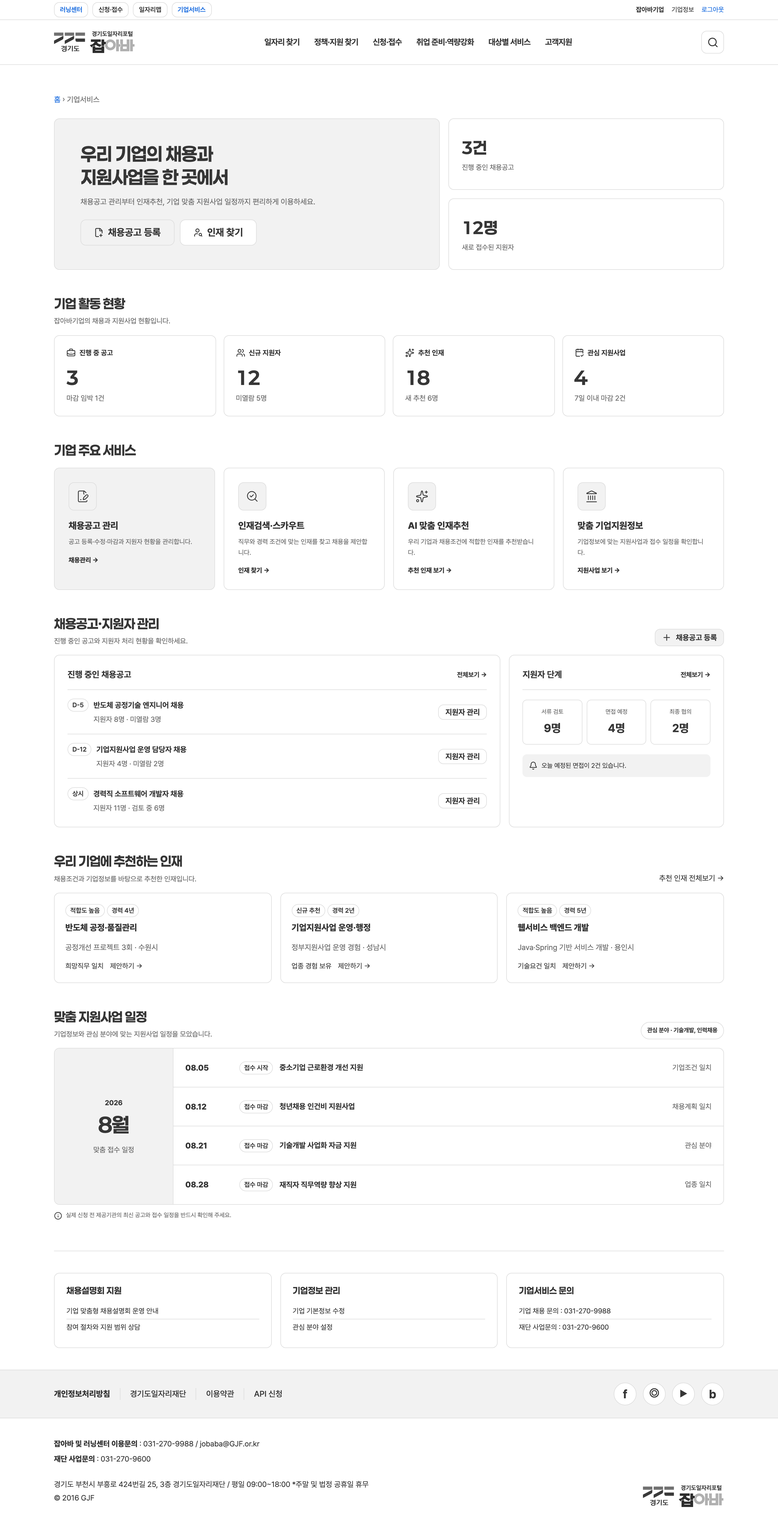
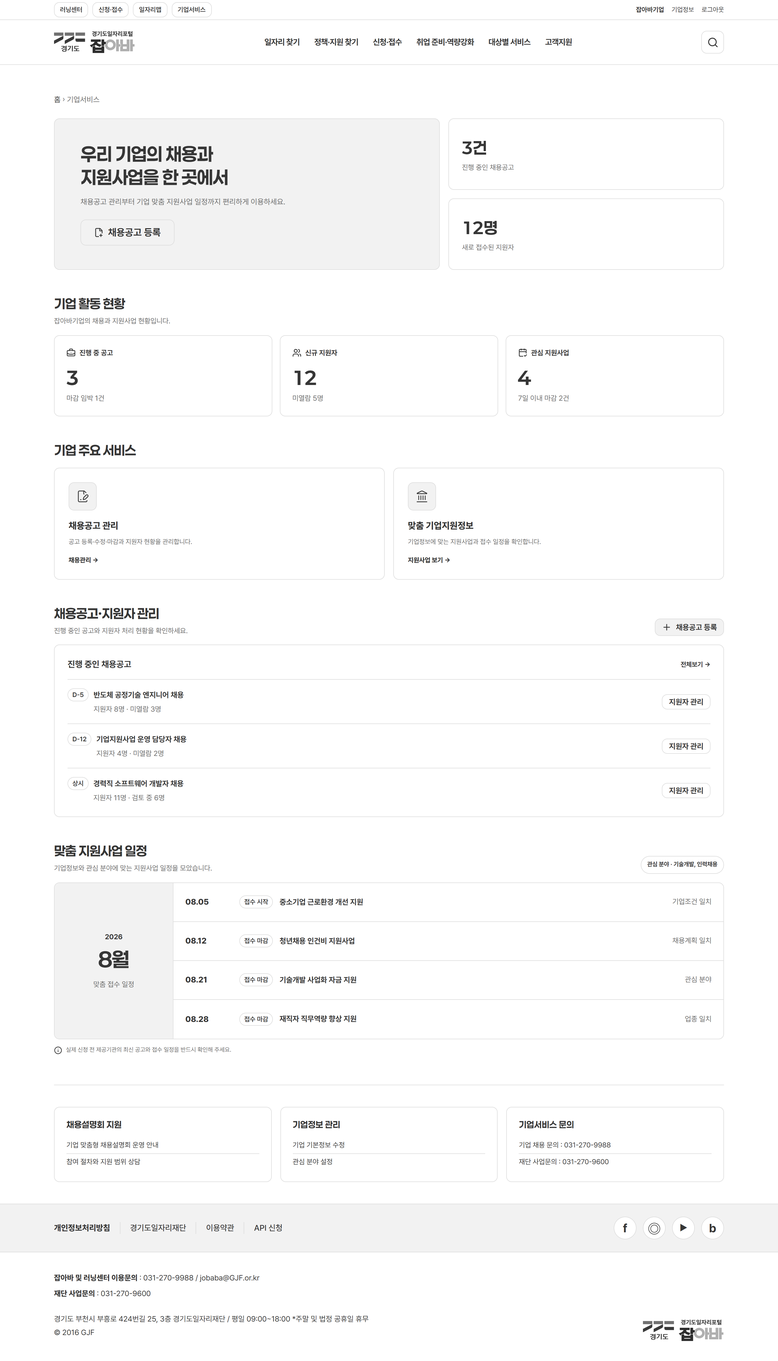
v2: Update biz home screen design and data mapping to current prototype

diff --git a/v2/screendoc/80_기업서비스/8.2.0_SCR-BIZM.html b/v2/screendoc/80_기업서비스/8.2.0_SCR-BIZM.html
@@ -6,17 +6,17 @@
 </head><body>
 <section class="page page--flow" data-kind="screen" data-screen="8.2.0">
   <div class="page__frame"><div class="sheet">
-    <div class="sheet__left"><div class="bar">기업서비스 / 기업서비스 홈</div><span class="label label--fr">SCR-BIZM / 기업서비스 홈·기업회원</span><p class="lead">개발구분 [N] 신규 개발 — 운영 대응 화면 없음. 기업회원 로그인 후 우리 기업 현황 요약(공고 · 지원자) · 채용공고·지원자 관리 · 추천 인재 · 맞춤 지원사업 일정을 제공한다. 지원자 정보는 기업회원 권한 검증 후 최소 범위로 노출한다.</p><ul class="lead-list"><li>대상 사용자: 기업회원(로그인 후)</li><li>진입 경로: 잡아바 홈 &gt; 기업서비스(기업회원)</li><li>주요 기능: FR-BIZ06 기업 활동 현황 · FR-BIZ07 채용공고 관리 · FR-BIZ08 인재검색 · 스카우트 외</li></ul><span class="label label--block">기업서비스 홈 · 기업회원 전체 화면</span><div class="shot" style="height:2196.4px"><img src="../90_data/capture/8.2.0_cap1.png" alt="기업서비스 홈 · 기업회원 전체 화면"><span class="mk mk--design" style="left:64.8px;top:157.3px">1</span><span class="mk mk--design" style="left:64.8px;top:469.0px">2</span><span class="mk mk--design" style="left:64.8px;top:659.7px">3</span><span class="mk mk--design" style="left:64.8px;top:872.7px">4</span><span class="mk mk--design" style="left:64.8px;top:1214.6px">5</span><span class="mk mk--design" style="left:64.8px;top:1438.0px">6</span><span class="mk mk--design" style="left:64.8px;top:1785.8px">7</span><span class="mk mk--dev" style="left:1029.2px;top:469.0px">1</span><span class="mk mk--dev" style="left:1029.2px;top:872.7px">2</span><span class="mk mk--dev" style="left:1029.2px;top:659.7px">3</span><span class="mk mk--dev" style="left:1029.2px;top:1214.6px">4</span><span class="mk mk--dev" style="left:1029.2px;top:1438.0px">5</span><span class="mk mk--dev" style="left:1029.2px;top:1785.8px">6</span></div></div>
+    <div class="sheet__left"><div class="bar">기업서비스 / 기업서비스 홈</div><span class="label label--fr">SCR-BIZM / 기업서비스 홈·기업회원</span><p class="lead">개발구분 [N] 신규 개발 — 운영 대응 화면 없음. 기업회원 로그인 후 우리 기업 현황 요약(공고 · 지원자) · 채용공고·지원자 관리 · 맞춤 지원사업 일정을 제공한다. 지원자 정보는 기업회원 권한 검증 후 최소 범위로 노출한다.</p><ul class="lead-list"><li>대상 사용자: 기업회원(로그인 후)</li><li>진입 경로: 잡아바 홈 &gt; 기업서비스(기업회원)</li><li>주요 기능: FR-BIZ06 기업 활동 현황 · FR-BIZ07 채용공고 관리 · FR-BIZ11 맞춤 지원사업 일정 외</li></ul><span class="label label--block">기업서비스 홈 · 기업회원 전체 화면</span><div class="shot" style="height:1957.7px"><img src="../90_data/capture/8.2.0_cap1.png" alt="기업서비스 홈 · 기업회원 전체 화면"><span class="mk mk--design" style="left:64.8px;top:157.1px">1</span><span class="mk mk--design" style="left:64.8px;top:412.2px">2</span><span class="mk mk--design" style="left:64.8px;top:623.0px">3</span><span class="mk mk--design" style="left:64.8px;top:857.9px">4</span><span class="mk mk--design" style="left:64.8px;top:1199.3px">5</span><span class="mk mk--design" style="left:64.8px;top:1547.0px">6</span><span class="mk mk--dev" style="left:1029.2px;top:412.2px">1</span><span class="mk mk--dev" style="left:1029.2px;top:857.9px">2</span><span class="mk mk--dev" style="left:1029.2px;top:1199.3px">3</span><span class="mk mk--dev" style="left:1029.2px;top:1547.0px">4</span></div></div>
     <div class="sheet__right"><table class="meta"><tbody>
       <tr><th>화면명</th><td>기업서비스 홈·기업회원</td><th>화면ID</th><td>8.2.0</td>
-          <th>작성일자</th><td>2026-09-06</td></tr>
-      <tr><th>시스템명</th><td>잡아바</td><th>버전</th><td>v 0.2.0</td>
+          <th>작성일자</th><td>2026-10-16</td></tr>
+      <tr><th>시스템명</th><td>잡아바</td><th>버전</th><td>v 0.3.0</td>
           <th>작성자</th><td>김창균</td></tr>
       <tr><th>화면경로</th><td class="l" colspan="3">잡아바 홈 &gt; 기업서비스(기업회원)</td>
           <th>SCR-ID</th><td>SCR-BIZM</td></tr>
     </tbody></table><table class="desc"><caption>Description</caption>
   <thead><tr><th class="h-design" colspan="2">디자인 / 퍼블리싱 요청</th>
              <th class="h-dev" colspan="2">기능 개발 요청</th></tr></thead>
-  <tbody><tr><td class='no no--design'>1</td><td class='body'><span class="fr-tag">FR-BIZ06</span><div>기업회원 히어로</div><ul><li>좌: 기업명 인사 + `채용공고 등록` · `인재검색` CTA</li><li>우: 현황 요약 카드(진행 중 채용공고 · 새로 접수된 지원자)</li></ul></td><td class='no no--dev'>1</td><td class='body'><span class="fr-tag">FR-BIZ06</span><div>기업 활동 현황 집계</div><ul><li>[DATA/CN-BIZ-01] 기업 식별 = `TB_EMPLYR_LINK.ENT_INFO_SEQ` → `jwrki.TB_ENT_INFO.SEQ` → `BIZRNO`</li><li>진행중 공고 = `TB_ENT_UNTACT_EMPMN` COUNT(`BIZRNO` · `USE_YN` · `BLOCK_YN=&#x27;N&#x27;` + 접수기간 유효 — `RQT_END_DE+HR` 문자열) · 마감임박 D-7</li><li>신규 지원자 = `TB_ENT_UNTACT_EMPMN_SPRT` COUNT(`REG_DT`) · 추천 인재 = `TB_ENT_UNTACT_AI_MATCHING` COUNT · 관심 지원사업 = `TB_SCRAP`(`09`)</li><li>미열람 = 열람 플래그 컬럼 부재 → 플래그 신설(SC-BIZ-02) / 전형결과 미입력 대체 / 지표 제거 중 택일 · 집계 시점 확정 필요</li></ul></td></tr><tr><td class='no no--design'>2</td><td class='body'><span class="fr-tag">FR-BIZ06</span><div>기업 활동 현황</div><ul><li>지표 카드 = 진행 중 공고(마감 임박 n) · 신규 지원자(미열람 n) · 추천 인재 · 관심 지원사업</li><li>지표 선택 시 해당 영역으로 이동</li></ul></td><td class='no no--dev'>2</td><td class='body'><span class="fr-tag">FR-BIZ07</span><div>채용공고 · 지원자 조회</div><ul><li>[DATA/CN-BIZ-02] `jmmbi.TB_ENT_UNTACT_EMPMN` `BIZRNO` 기준 — `TITLE` · `STATUS`(코드그룹 확인) · `RECRUITMENT_DEADLINE_YN` · 등록일·담당자 · 사전질문 `TB_ENT_UNTACT_EMPMN_BF_QSTN`</li><li>[DATA/CN-BIZ-04] 지원자 = `jedut.TB_ENT_UNTACT_EMPMN_SPRT`(`EMPMN_SEQ` · `MBER_SEQ` · `REG_DT` · 전형결과 `DOC_RSLT_CD` `INTRV_RSLT_CD` `LAST_RSLT_CD`) + 단계 이력 `TB_ENT_EMPMN_SPRT_STATUS_HIST` + 지원 시점 이력서 스냅샷 `TB_UNTACT_RESUME`</li><li>공고 담당자 권한 검증 후 조회 · `MBER_SEQ` 직접 노출 금지</li></ul></td></tr><tr><td class='no no--design'>3</td><td class='body'><span class="fr-tag">FR-BIZ07</span><div>기업 서비스 바로가기</div><ul><li>채용공고 관리 · 인재검색·스카우트 · AI 맞춤 인재추천 · 맞춤 기업지원정보 카드</li></ul></td><td class='no no--dev'>3</td><td class='body'><span class="fr-tag">FR-BIZ08</span><div>인재검색 · 스카우트</div><ul><li>[DATA/CN-BIZ-03] 모집단 = `TB_JBHNT_REG` 추천신청 회원 · 조건 = `TB_MBER_RESUME` `HOPE_JOB_CD` `TOT_CAREER_CD` `HOPE_AREA_CD` `ACDMCR_CD` `EMP_TP_CD` · `KEYWORD`</li><li>제안 발송 = `jmmbi.TB_ENT_SUGGEST`(→ `TB_ENT_UNTACT_EMPMN_SPRT.SUGGEST_SEQ`로 지원 전환 추적)</li></ul></td></tr><tr><td class='no no--design'>4</td><td class='body'><span class="fr-tag">FR-BIZ07</span><div>채용공고 · 지원자 관리</div><ul><li>좌 패널: 진행 중인 채용공고 목록(D-day · 공고명 · 지원자 수) + `전체보기`</li><li>우 패널: 지원자 단계(서류 검토 · 면접 · 최종) 인원 + 오늘 면접 안내</li><li>공고 등록·수정·마감과 공고별 지원자 현황으로 이동 · 지원자 개인정보는 권한 검증 후 최소 범위</li></ul></td><td class='no no--dev'>4</td><td class='body'><span class="fr-tag">FR-BIZ10</span><div>추천 인재</div><ul><li>[AI-REUSE/CN-BIZ-05] `jmmbi.TB_ENT_UNTACT_AI_MATCHING` 매칭 결과 재사용 · 공고 단위 추천요청 `RECOM_YN` `RECOM_REQ_DT`</li><li>공고측(`UNTACT_02` · `UNTACT_03`) ↔ 구직자측(`UNTACT_08` · `UNTACT_14`) 코드그룹 불일치 — 변환표 선행(R18) · 추천 근거 필드 보유 여부 컬럼 실측</li></ul></td></tr><tr><td class='no no--design'>5</td><td class='body'><span class="fr-tag">FR-BIZ10</span><div>우리 기업에 추천하는 인재</div><ul><li>채용조건에 맞는 추천 인재 카드(직무 · 경력 · 지역 · 추천 근거) + 신규 추천 건수</li><li>신규 추천 모델 개발은 범위 밖 — 기개발 AI 매칭 결과 재사용 · 인재 식별값은 구직자 시퀀스 사용</li></ul></td><td class='no no--dev'>5</td><td class='body'><span class="fr-tag">FR-BIZ11</span><div>맞춤 지원사업 일정</div><ul><li>[DATA/CN-BIZ-06] `jedut.TB_ENT_SPRT` `APLY_BGN_DT~APLY_END_DT` ↔ 기업 관심분야(`TB_EMPLYR_INTEREST` 계열 재사용 후보 · SC-BIZ-01)</li></ul></td></tr><tr><td class='no no--design'>6</td><td class='body'><span class="fr-tag">FR-BIZ11</span><div>맞춤 지원사업 일정</div><ul><li>기업정보·관심분야에 맞는 지원사업의 신청기간 · 마감일 목록(월 단위)</li><li>캘린더 UI는 개발 완료 후 적용 · 신청 전 제공기관 최신 공고 확인 안내</li></ul></td><td class='no no--dev'>6</td><td class='body'><span class="fr-tag">FR-BIZ12</span><div>기업정보 · 관심분야 관리</div><ul><li>[DATA/CN-BIZ-07] `jwrki.TB_ENT_INFO` · `TB_ENT_EXCLNC`(`ENT_NM` · `KOR_CEO_NM` · 주소 · 연락처 · `HOMP_URL` · `ENT_SMR`) · 콘텐츠관 `TB_ENT_CNTNTS_MPNG`</li><li>관심 지원분야(복수) = `TB_EMPLYR_INTEREST` / `_INTRST_OCCUPT` / `_INTRST_KEYWORD`</li></ul></td></tr><tr><td class='no no--design'>7</td><td class='body'><span class="fr-tag">FR-BIZ12</span><div>하단 안내 영역</div><ul><li>채용설명회 지원 · 기업정보·관심분야 관리 진입 · 문의 채널</li></ul></td><td class='muted'></td><td class='muted'></td></tr></tbody></table><div class="block"><span class="label label--block">화면 개요</span><ul><li>개발구분 [N] 신규 개발 — 기업회원 전용 홈. 기업 활동 현황 · 채용공고·지원자 관리 · 인재검색·스카우트 · 추천 인재 · 맞춤 지원사업 일정 · 기업정보 관리 진입을 한 화면에 요약한다.</li><li>기업회원 식별 경로 = TB_MBER_LINK → TB_EMPLYR_LINK.ENT_INFO_SEQ → TB_ENT_INFO.BIZRNO(확정). 지원자 개인정보는 기업 권한과 공고 담당자 권한을 확인한 뒤 최소 범위로 제공한다.</li><li>공고 등록폼 · 지원자 상세 등 기업 전용 하위 업무 화면은 이번 범위 밖이다. 캘린더는 개발 완료 후 적용한다.</li></ul></div><div class="block"><span class="label label--block">화면 구조</span><table><thead><tr><th>#</th><th>영역</th><th>구성</th><th>FR ID</th></tr></thead><tbody><tr><td>1</td><td>히어로</td><td>기업명 인사 · 공고 등록/인재검색 CTA · 현황 요약</td><td>FR-BIZ06</td></tr><tr><td>2</td><td>기업 활동 현황</td><td>진행 중 공고 · 신규 지원자 · 추천 인재 · 관심 지원사업</td><td>FR-BIZ06</td></tr><tr><td>3</td><td>서비스 바로가기</td><td>채용공고 관리 · 인재검색·스카우트 · AI 맞춤 인재추천 · 맞춤 기업지원정보</td><td>FR-BIZ07·08·10</td></tr><tr><td>4</td><td>채용공고 · 지원자 관리</td><td>진행 공고 목록 + 지원자 단계 패널</td><td>FR-BIZ07·09</td></tr><tr><td>5</td><td>추천 인재</td><td>추천 카드 + 신규 추천 건수 + 근거</td><td>FR-BIZ10</td></tr><tr><td>6</td><td>맞춤 지원사업 일정</td><td>월 단위 신청기간·마감일</td><td>FR-BIZ11</td></tr><tr><td>7</td><td>하단 안내</td><td>채용설명회 · 기업정보·관심분야 관리 · 문의</td><td>FR-BIZ12</td></tr></tbody></table></div><div class="block"><span class="label label--block">로그인 전 대비 차이</span><table><thead><tr><th>영역</th><th>로그인 전(8.1.0)</th><th>기업회원(본 화면)</th></tr></thead><tbody><tr><td>히어로</td><td>서비스 소개 + 가입 CTA</td><td>우리 기업 현황 + 공고 등록 CTA</td></tr><tr><td>주요 영역</td><td>공개 정보 안내</td><td>활동 현황 · 공고/지원자 관리 · 추천 인재 · 맞춤 일정</td></tr><tr><td>지원자 정보</td><td>노출하지 않음</td><td>권한 검증 후 최소 범위</td></tr></tbody></table></div><div class="block"><span class="label label--block">상태 · 예외 처리</span><ul><li>진행 중 공고가 없으면 공고 등록 유도 카드를 노출한다.</li><li>추천 인재가 0건이면 채용조건 설정 유도를 노출한다.</li><li>지표 집계 시점과 `미열람` 정의, 추천 인재·지원사업 매칭 기준은 개발 전에 확정한다.</li></ul></div></div>
+  <tbody><tr><td class='no no--design'>1</td><td class='body'><span class="fr-tag">FR-BIZ06</span><div>기업회원 히어로</div><ul><li>좌: 기업명 인사 + `채용공고 등록` CTA</li><li>우: 현황 요약 카드(진행 중 채용공고 · 새로 접수된 지원자)</li></ul></td><td class='no no--dev'>1</td><td class='body'><span class="fr-tag">FR-BIZ06</span><div>기업 활동 현황 집계</div><ul><li>[DATA/CN-BIZ-01] 기업 식별 = `TB_EMPLYR_LINK.ENT_INFO_SEQ` → `jwrki.TB_ENT_INFO.SEQ` → `BIZRNO`</li><li>진행중 공고 = `TB_ENT_UNTACT_EMPMN` COUNT(`BIZRNO` · `USE_YN` · `BLOCK_YN=&#x27;N&#x27;` + 접수기간 유효 — `RQT_END_DE+HR` 문자열) · 마감임박 D-7</li><li>신규 지원자 = `TB_ENT_UNTACT_EMPMN_SPRT` COUNT(`REG_DT`) · 관심 지원사업 = `TB_SCRAP`(`09`)</li><li>미열람 = 열람 플래그 컬럼 부재 → 플래그 신설(SC-BIZ-02) / 전형결과 미입력 대체 / 지표 제거 중 택일 · 집계 시점 확정 필요</li></ul></td></tr><tr><td class='no no--design'>2</td><td class='body'><span class="fr-tag">FR-BIZ06</span><div>기업 활동 현황</div><ul><li>지표 카드 3종 = 진행 중 공고(마감 임박 n) · 신규 지원자(미열람 n) · 관심 지원사업(7일 이내 마감 n)</li><li>지표 선택 시 해당 영역으로 이동</li></ul></td><td class='no no--dev'>2</td><td class='body'><span class="fr-tag">FR-BIZ07</span><div>채용공고 · 지원자 조회</div><ul><li>[DATA/CN-BIZ-02] `jmmbi.TB_ENT_UNTACT_EMPMN` `BIZRNO` 기준 — `TITLE` · `STATUS`(코드그룹 확인) · `RECRUITMENT_DEADLINE_YN` · 등록일·담당자 · 사전질문 `TB_ENT_UNTACT_EMPMN_BF_QSTN`</li><li>[DATA/CN-BIZ-04] 지원자 = `jedut.TB_ENT_UNTACT_EMPMN_SPRT`(`EMPMN_SEQ` · `MBER_SEQ` · `REG_DT`) + 지원 시점 이력서 스냅샷 `TB_UNTACT_RESUME`</li><li>전형결과는 단계 구분 없이 1개(미확인 · 보류 · 합격 · 불합격) — 기존 단계별 컬럼(`DOC_RSLT_CD` · `INTRV_RSLT_CD` · `LAST_RSLT_CD`) 중 저장 컬럼 확정 필요</li><li>공고 담당자 권한 검증 후 조회 · `MBER_SEQ` 직접 노출 금지</li></ul></td></tr><tr><td class='no no--design'>3</td><td class='body'><span class="fr-tag">FR-BIZ07</span><div>기업 서비스 바로가기</div><ul><li>채용공고 관리 · 맞춤 기업지원정보 카드 2종</li></ul></td><td class='no no--dev'>3</td><td class='body'><span class="fr-tag">FR-BIZ11</span><div>맞춤 지원사업 일정</div><ul><li>[DATA/CN-BIZ-06] `jedut.TB_ENT_SPRT` `APLY_BGN_DT~APLY_END_DT` ↔ 기업 관심분야(`TB_EMPLYR_INTEREST` 계열 재사용 후보 · SC-BIZ-01)</li></ul></td></tr><tr><td class='no no--design'>4</td><td class='body'><span class="fr-tag">FR-BIZ07</span><div>채용공고 · 지원자 관리</div><ul><li>진행 중인 채용공고 목록(D-day · 공고명 · 지원자 수 · 미열람 수) + `전체보기` · 공고별 `지원자 관리` 이동</li><li>지원자 단계 패널 · 오늘 면접 안내는 제공하지 않음(전형단계 미운영)</li><li>공고 등록·수정·마감과 공고별 지원자 현황으로 이동 · 지원자 개인정보는 권한 검증 후 최소 범위</li></ul></td><td class='no no--dev'>4</td><td class='body'><span class="fr-tag">FR-BIZ12</span><div>기업정보 · 관심분야 관리</div><ul><li>[DATA/CN-BIZ-07] `jwrki.TB_ENT_INFO` · `TB_ENT_EXCLNC`(`ENT_NM` · `KOR_CEO_NM` · 주소 · 연락처 · `HOMP_URL` · `ENT_SMR`) · 콘텐츠관 `TB_ENT_CNTNTS_MPNG`</li><li>관심 지원분야(복수) = `TB_EMPLYR_INTEREST` / `_INTRST_OCCUPT` / `_INTRST_KEYWORD`</li></ul></td></tr><tr><td class='no no--design'>5</td><td class='body'><span class="fr-tag">FR-BIZ11</span><div>맞춤 지원사업 일정</div><ul><li>기업정보·관심분야에 맞는 지원사업의 신청기간 · 마감일 목록(월 단위)</li><li>캘린더 UI는 개발 완료 후 적용 · 신청 전 제공기관 최신 공고 확인 안내</li></ul></td><td class='muted'></td><td class='muted'></td></tr><tr><td class='no no--design'>6</td><td class='body'><span class="fr-tag">FR-BIZ12</span><div>하단 안내 영역</div><ul><li>채용설명회 지원 · 기업정보·관심분야 관리 진입 · 문의 채널</li></ul></td><td class='muted'></td><td class='muted'></td></tr></tbody></table><div class="block"><span class="label label--block">화면 개요</span><ul><li>개발구분 [N] 신규 개발 — 기업회원 전용 홈. 기업 활동 현황 · 채용공고·지원자 관리 · 맞춤 지원사업 일정 · 기업정보 관리 진입을 한 화면에 요약한다.</li><li>기업회원 식별 경로 = TB_MBER_LINK → TB_EMPLYR_LINK.ENT_INFO_SEQ → TB_ENT_INFO.BIZRNO(확정). 지원자 개인정보는 기업 권한과 공고 담당자 권한을 확인한 뒤 최소 범위로 제공한다.</li><li>공고 등록폼 · 지원자 상세 등 기업 전용 하위 업무 화면은 이번 범위 밖이다. 캘린더는 개발 완료 후 적용한다.</li></ul></div><div class="block"><span class="label label--block">v 0.3.0 변경 사항 (2026-10-16)</span><ul><li>인재추천 기능 제거 — 히어로 `인재 찾기` CTA · 활동 현황 `추천 인재` 지표 · 서비스 카드 `인재검색·스카우트` · `AI 맞춤 인재추천` · `우리 기업에 추천하는 인재` 영역 삭제 (FR-BIZ08 · FR-BIZ10 제외)</li><li>지원자 전형단계 제거 — `지원자 단계`(서류 검토 · 면접 예정 · 최종 협의) 패널 · 오늘 면접 안내 삭제. 전형결과는 단계 없이 1개로 관리</li><li>화면 구조 7개 영역 → 6개 영역 · 활동 현황 지표 4종 → 3종 · 서비스 카드 4종 → 2종</li></ul></div><div class="block"><span class="label label--block">화면 구조</span><table><thead><tr><th>#</th><th>영역</th><th>구성</th><th>FR ID</th></tr></thead><tbody><tr><td>1</td><td>히어로</td><td>기업명 인사 · 공고 등록 CTA · 현황 요약</td><td>FR-BIZ06</td></tr><tr><td>2</td><td>기업 활동 현황</td><td>진행 중 공고 · 신규 지원자 · 관심 지원사업</td><td>FR-BIZ06</td></tr><tr><td>3</td><td>서비스 바로가기</td><td>채용공고 관리 · 맞춤 기업지원정보</td><td>FR-BIZ07·11</td></tr><tr><td>4</td><td>채용공고 · 지원자 관리</td><td>진행 공고 목록 + 공고별 지원자 관리 이동</td><td>FR-BIZ07·09</td></tr><tr><td>5</td><td>맞춤 지원사업 일정</td><td>월 단위 신청기간·마감일</td><td>FR-BIZ11</td></tr><tr><td>6</td><td>하단 안내</td><td>채용설명회 · 기업정보·관심분야 관리 · 문의</td><td>FR-BIZ12</td></tr></tbody></table></div><div class="block"><span class="label label--block">로그인 전 대비 차이</span><table><thead><tr><th>영역</th><th>로그인 전(8.1.0)</th><th>기업회원(본 화면)</th></tr></thead><tbody><tr><td>히어로</td><td>서비스 소개 + 가입 CTA</td><td>우리 기업 현황 + 공고 등록 CTA</td></tr><tr><td>주요 영역</td><td>공개 정보 안내</td><td>활동 현황 · 공고/지원자 관리 · 맞춤 일정</td></tr><tr><td>지원자 정보</td><td>노출하지 않음</td><td>권한 검증 후 최소 범위</td></tr></tbody></table></div><div class="block"><span class="label label--block">상태 · 예외 처리</span><ul><li>진행 중 공고가 없으면 공고 등록 유도 카드를 노출한다.</li><li>지표 집계 시점과 `미열람` 정의, 지원사업 매칭 기준은 개발 전에 확정한다.</li></ul></div></div>
   </div></div></section>
 </body></html>

diff --git a/v2/screendoc/80_기업서비스/8.2.0_SCR-BIZM_데이터매핑.html b/v2/screendoc/80_기업서비스/8.2.0_SCR-BIZM_데이터매핑.html
@@ -5,5 +5,5 @@
 <link rel="stylesheet" href="../00_common/template/layout.css">
 </head><body>
 <section class="page page--flow" data-kind="datamap" data-screen="8.2.0">
-  <div class="page__frame"><h1 class="tbl-title">데이터 매핑 — 8.2.0 기업서비스 홈·기업회원</h1><table class="tbl map"><thead><tr><th>연동 ID</th><th>FR ID</th><th>화면 항목</th><th>유형</th><th>논리 항목</th><th>테이블 / API</th><th>컬럼</th><th>타입</th><th>키</th><th>조회·적용 조건</th><th>상태</th></tr></thead><tbody><tr><td rowspan="7">CN-BIZ-01</td><td rowspan="7">FR-BIZ06</td><td rowspan="7">기업 활동 현황</td><td rowspan="7" class="c">DATA</td><td>기업 ID → 사업자번호</td><td class="phy">jwrki.TB_ENT_INFO</td><td class="phy">SEQ → BIZRNO</td><td class="c">bigint → varchar(10)</td><td class="c">PK</td><td rowspan="7">TB_EMPLYR_LINK.ENT_INFO_SEQ로 진입. 집계 시점·미열람 정의 확정 필요</td><td rowspan="7" class="c">기존사용</td></tr><tr><td>진행중 공고 수(접수기간 문자열 조합)</td><td class="phy">jmmbi.TB_ENT_UNTACT_EMPMN</td><td class="phy">COUNT(*) (BIZRNO · USE_YN=&#x27;Y&#x27; · DEL_YN=&#x27;N&#x27; · BLOCK_YN=&#x27;N&#x27;)</td><td class="c">int</td><td class="c">IX</td></tr><tr><td>마감임박 수(D-7)</td><td class="phy">jmmbi.TB_ENT_UNTACT_EMPMN</td><td class="phy">RQT_END_DE · RQT_END_HR</td><td class="c">varchar(10) · varchar(5)</td><td class="c">—</td></tr><tr><td>신규 지원자 수</td><td class="phy">jedut.TB_ENT_UNTACT_EMPMN_SPRT</td><td class="phy">COUNT(*) (REG_DT 기준)</td><td class="c">int</td><td class="c">—</td></tr><tr><td>미열람 지원자 수(열람 플래그 부재 · SC-BIZ-02)</td><td class="phy"><span class="unset">(미확정)</span></td><td class="phy"><span class="unset">(미확정)</span></td><td class="c">—</td><td class="c">—</td></tr><tr><td>추천 인재 수</td><td class="phy">jmmbi.TB_ENT_UNTACT_AI_MATCHING</td><td class="phy">COUNT(*)</td><td class="c">int</td><td class="c">—</td></tr><tr><td>관심 지원사업 수</td><td class="phy">jmmbi.TB_SCRAP</td><td class="phy">COUNT(*) (CNTNTS_TYPE_CD=&#x27;09&#x27;)</td><td class="c">int</td><td class="c">PK</td></tr><tr><td rowspan="4">CN-BIZ-02</td><td rowspan="4">FR-BIZ07</td><td rowspan="4">채용공고 관리</td><td rowspan="4" class="c">DATA</td><td>공고 ID · 제목</td><td class="phy">jmmbi.TB_ENT_UNTACT_EMPMN</td><td class="phy">SEQ · TITLE</td><td class="c">bigint · longtext</td><td class="c">PK</td><td rowspan="4">BIZRNO 기준 조회. 등록·수정·마감 권한 검증</td><td rowspan="4" class="c">기존사용</td></tr><tr><td>공고 상태(STATUS 코드그룹 확인)</td><td class="phy">jmmbi.TB_ENT_UNTACT_EMPMN</td><td class="phy">STATUS / USE_YN · DEL_YN · BLOCK_YN · RECRUITMENT_DEADLINE_YN</td><td class="c">varchar(2) · char(1)</td><td class="c">IX</td></tr><tr><td>등록일 · 담당자(대리등록 DEPUTY_*)</td><td class="phy">jmmbi.TB_ENT_UNTACT_EMPMN</td><td class="phy">REG_DT / REG_USR · REG_ID · REG_NM · CHGR_NM</td><td class="c">datetime · varchar</td><td class="c">—</td></tr><tr><td>사전질문(답변 _BF_QSTN_ANS)</td><td class="phy">jedut.TB_ENT_UNTACT_EMPMN_BF_QSTN</td><td class="phy">EMPMN_SEQ</td><td class="c">bigint</td><td class="c">FK</td></tr><tr><td rowspan="3">CN-BIZ-03</td><td rowspan="3">FR-BIZ08</td><td rowspan="3">인재검색 · 스카우트</td><td rowspan="3" class="c">DATA</td><td>검색조건(직무 · 경력 · 지역 · 학력 · 고용형태 · 키워드)</td><td class="phy">jedut.TB_MBER_RESUME · jmmbi.TB_JBHNT_REG</td><td class="phy">HOPE_JOB_CD · TOT_CAREER_CD · HOPE_AREA_CD · ACDMCR_CD · EMP_TP_CD · KEYWORD</td><td class="c">varchar</td><td class="c">—</td><td rowspan="3">모집단 = TB_JBHNT_REG 추천신청 회원. MBER_SEQ 직접 노출 금지</td><td rowspan="3" class="c">기존사용</td></tr><tr><td>인재 식별값(구직자 시퀀스)</td><td class="phy">jmmbi.TB_JBHNT_REG</td><td class="phy">SEQ / MBER_SEQ</td><td class="c">bigint / varchar(20)</td><td class="c">PK/UQ</td></tr><tr><td>제안 발송 이력(→ 지원 전환 추적)</td><td class="phy">jmmbi.TB_ENT_SUGGEST</td><td class="phy">SUGGEST_SEQ</td><td class="c">bigint</td><td class="c">PK</td></tr><tr><td rowspan="5">CN-BIZ-04</td><td rowspan="5">FR-BIZ09</td><td rowspan="5">지원자 관리</td><td rowspan="5" class="c">DATA</td><td>지원 ID · 지원자 ID · 공고 ID</td><td class="phy">jedut.TB_ENT_UNTACT_EMPMN_SPRT</td><td class="phy">SEQ · MBER_SEQ · EMPMN_SEQ</td><td class="c">bigint · varchar(20) · bigint</td><td class="c">PK/FK</td><td rowspan="5">공고 담당자 권한 검증 후 조회. USE_YN=&#x27;Y&#x27; AND DEL_YN=&#x27;N&#x27;. 개인정보 최소범위(이력서 스냅샷만)</td><td rowspan="5" class="c">기존사용</td></tr><tr><td>지원 이력서(지원 시점 스냅샷 10종)</td><td class="phy">jedut.TB_ENT_UNTACT_EMPMN_SPRT → jedut.TB_UNTACT_RESUME</td><td class="phy">RESUME_SEQ</td><td class="c">bigint</td><td class="c">FK</td></tr><tr><td>지원일 · 전형상태 · 면접일정 · 수험번호</td><td class="phy">jedut.TB_ENT_UNTACT_EMPMN_SPRT</td><td class="phy">REG_DT · DOC_RSLT_CD · INTRV_RSLT_CD · LAST_RSLT_CD · STATUS · SUPPORT_STATUS · INTRV_BGN_DT+INTRV_BGN_HM · CANDIDT_NO</td><td class="c">datetime · varchar</td><td class="c">—</td></tr><tr><td>전형단계 이력</td><td class="phy">jwrki.TB_ENT_EMPMN_SPRT_STATUS_HIST</td><td class="phy">SPRT_SEQ</td><td class="c">bigint</td><td class="c">FK</td></tr><tr><td>열람여부(컬럼 부재 · SC-BIZ-02)</td><td class="phy"><span class="unset">(미확정)</span></td><td class="phy"><span class="unset">(미확정)</span></td><td class="c">—</td><td class="c">—</td></tr><tr><td rowspan="3">CN-BIZ-05</td><td rowspan="3">FR-BIZ10</td><td rowspan="3">추천 인재</td><td rowspan="3" class="c">AI-REUSE</td><td>기업 채용조건</td><td class="phy">jmmbi.TB_ENT_UNTACT_EMPMN</td><td class="phy">CL_CD · JOB_AREA_CD · EMP_TP_CD · CAREER_CD · ACDMCR_CD · JOB_TAG · KEYWORD</td><td class="c">varchar</td><td class="c">—</td><td rowspan="3">매칭 기준 확정 후 적용. 신규 추천 모델 개발은 범위 밖. 코드그룹 불일치(R18)</td><td rowspan="3" class="c">기존사용</td></tr><tr><td>인재 조건</td><td class="phy">jedut.TB_MBER_RESUME · jmmbi.TB_JBHNT_REG</td><td class="phy">CN-BIZ-03과 동일</td><td class="c">—</td><td class="c">—</td></tr><tr><td>신규 추천 건수 · 추천 근거(컬럼 실측 필요)</td><td class="phy">jmmbi.TB_ENT_UNTACT_AI_MATCHING</td><td class="phy"><span class="unset">(미확정)</span></td><td class="c">—</td><td class="c">—</td></tr><tr><td rowspan="4">CN-BIZ-06 · CN-BIZ-07</td><td rowspan="4">FR-BIZ11·12</td><td rowspan="4">기업정보 · 관심분야 · 지원사업 일정</td><td rowspan="4" class="c">DATA</td><td>기업 기본정보</td><td class="phy">jwrki.TB_ENT_INFO · jwrki.TB_ENT_EXCLNC</td><td class="phy">SEQ · BIZRNO / ENT_NM · KOR_CEO_NM · HDQTR_KOR_ADRS · HDQTR_TELNO · EMAIL · HOMP_URL · ENT_SMR</td><td class="c">bigint · varchar · text</td><td class="c">PK</td><td rowspan="4">기업 기본정보 단건 · 관심 지원분야 복수 · 지원사업 신청기간 매칭</td><td rowspan="4" class="c">기존사용</td></tr><tr><td>기업 콘텐츠관</td><td class="phy">jwrki.TB_ENT_CNTNTS_MPNG</td><td class="phy">BIZRNO + GUBUN_CD</td><td class="c">varchar(10) + varchar(2)</td><td class="c">PK</td></tr><tr><td>관심 지원분야(복수 · SC-BIZ-01 해소 후보)</td><td class="phy">jmmbi.TB_EMPLYR_INTEREST / TB_EMPLYR_INTRST_OCCUPT / TB_EMPLYR_INTRST_KEYWORD</td><td class="phy">MBER_SEQ + INTEREST_CD / OCCUPT_GRP_CD + OCCUPT_CD / KEYWORD_GRP_CD + KEYWORD_CD</td><td class="c">varchar</td><td class="c">PK</td></tr><tr><td>지원사업 신청기간 · 마감일</td><td class="phy">jedut.TB_ENT_SPRT</td><td class="phy">APLY_BGN_DT ~ APLY_END_DT</td><td class="c">date</td><td class="c">—</td></tr></tbody></table><h2 class="tbl-sub">조인 조건</h2><table class="tbl join"><thead><tr><th>연동 ID</th><th>기준 테이블</th><th>조인 테이블</th><th>조인 유형</th><th>조인 조건</th><th>비고</th></tr></thead><tbody><tr><td class="">CN-BIZ-01·02</td><td class="phy">jmmbi.TB_EMPLYR_LINK</td><td class="phy">jwrki.TB_ENT_INFO</td><td class="">INNER</td><td class="phy">TB_ENT_INFO.SEQ = TB_EMPLYR_LINK.ENT_INFO_SEQ</td><td class="">연결 경로 확정</td></tr><tr><td class="">CN-BIZ-01·02</td><td class="phy">jwrki.TB_ENT_INFO</td><td class="phy">jmmbi.TB_ENT_UNTACT_EMPMN</td><td class="">INNER</td><td class="phy">TB_ENT_UNTACT_EMPMN.BIZRNO = TB_ENT_INFO.BIZRNO</td><td class="">기업 공고</td></tr><tr><td class="">CN-BIZ-04</td><td class="phy">jedut.TB_ENT_UNTACT_EMPMN_SPRT A</td><td class="phy">jmmbi.TB_ENT_UNTACT_EMPMN C</td><td class="">INNER</td><td class="phy">A.EMPMN_SEQ = C.SEQ AND C.DEL_YN = &#x27;N&#x27;</td><td class="">지원 → 공고</td></tr><tr><td class="">CN-BIZ-04</td><td class="phy">jedut.TB_ENT_UNTACT_EMPMN_SPRT A</td><td class="phy">jwrki.TB_ENT_EMPMN_SPRT_STATUS_HIST G</td><td class="">INNER</td><td class="phy">G.SPRT_SEQ = A.SEQ AND G.DEL_YN = &#x27;N&#x27;</td><td class="">전형단계 이력</td></tr><tr><td class="">CN-BIZ-04</td><td class="phy">jedut.TB_ENT_UNTACT_EMPMN_SPRT A</td><td class="phy">jedut.TB_UNTACT_RESUME E</td><td class="">LEFT</td><td class="phy">E.SEQ = A.RESUME_SEQ</td><td class="">지원 시점 이력서 스냅샷</td></tr><tr><td class="">CN-BIZ-03·04</td><td class="phy">jedut.TB_ENT_UNTACT_EMPMN_SPRT A</td><td class="phy">jmmbi.TB_ENT_SUGGEST F</td><td class="">LEFT</td><td class="phy">F.SUGGEST_SEQ = A.SUGGEST_SEQ</td><td class="">스카우트 제안 → 지원 전환 추적</td></tr><tr><td class="">CN-BIZ-06</td><td class="phy">jwrki.TB_ENT_INFO</td><td class="phy">jwrki.TB_ENT_EXCLNC</td><td class="">LEFT</td><td class="phy">TB_ENT_EXCLNC.BIZRNO = TB_ENT_INFO.BIZRNO AND DEL_YN = &#x27;N&#x27;</td><td class="">우수기업 마스터</td></tr></tbody></table><h2 class="tbl-sub">확인 필요 사항</h2><ul class='map-note'><li>기업회원 → 사업자번호 경로 확정 — TB_EMPLYR_LINK.ENT_INFO_SEQ = jwrki.TB_ENT_INFO.SEQ. 기업서비스 전 기능의 선행 조건이 풀렸다.</li><li>입사지원 이력 확정 — jedut.TB_ENT_UNTACT_EMPMN_SPRT(서류·면접·최종 3단계 + 단계 이력). 지원 시점 이력서는 TB_UNTACT_RESUME 계열 스냅샷으로 분리 보관된다.</li><li>`미열람` 열람 플래그는 부재 — ①플래그 신설(SC-BIZ-02) ②전형결과 미입력으로 대체 ③지표 삭제 중 택일 필요.</li><li>기업 관심분야는 TB_EMPLYR_INTEREST 계열 재사용 가능성이 크다(SC-BIZ-01 재판정) — 기업회원 데이터 적재 여부 운영 확인.</li><li>TB_ENT_UNTACT_AI_MATCHING의 컬럼 구성(추천 근거·점수 보유 여부)은 컬럼 실측 잔여.</li></ul></div></section>
+  <div class="page__frame"><h1 class="tbl-title">데이터 매핑 — 8.2.0 기업서비스 홈·기업회원</h1><table class="tbl map"><thead><tr><th>연동 ID</th><th>FR ID</th><th>화면 항목</th><th>유형</th><th>논리 항목</th><th>테이블 / API</th><th>컬럼</th><th>타입</th><th>키</th><th>조회·적용 조건</th><th>상태</th></tr></thead><tbody><tr><td rowspan="6">CN-BIZ-01</td><td rowspan="6">FR-BIZ06</td><td rowspan="6">기업 활동 현황</td><td rowspan="6" class="c">DATA</td><td>기업 ID → 사업자번호</td><td class="phy">jwrki.TB_ENT_INFO</td><td class="phy">SEQ → BIZRNO</td><td class="c">bigint → varchar(10)</td><td class="c">PK</td><td rowspan="6">TB_EMPLYR_LINK.ENT_INFO_SEQ로 진입. 집계 시점·미열람 정의 확정 필요</td><td rowspan="6" class="c">기존사용</td></tr><tr><td>진행중 공고 수(접수기간 문자열 조합)</td><td class="phy">jmmbi.TB_ENT_UNTACT_EMPMN</td><td class="phy">COUNT(*) (BIZRNO · USE_YN=&#x27;Y&#x27; · DEL_YN=&#x27;N&#x27; · BLOCK_YN=&#x27;N&#x27;)</td><td class="c">int</td><td class="c">IX</td></tr><tr><td>마감임박 수(D-7)</td><td class="phy">jmmbi.TB_ENT_UNTACT_EMPMN</td><td class="phy">RQT_END_DE · RQT_END_HR</td><td class="c">varchar(10) · varchar(5)</td><td class="c">—</td></tr><tr><td>신규 지원자 수</td><td class="phy">jedut.TB_ENT_UNTACT_EMPMN_SPRT</td><td class="phy">COUNT(*) (REG_DT 기준)</td><td class="c">int</td><td class="c">—</td></tr><tr><td>미열람 지원자 수(열람 플래그 부재 · SC-BIZ-02)</td><td class="phy"><span class="unset">(미확정)</span></td><td class="phy"><span class="unset">(미확정)</span></td><td class="c">—</td><td class="c">—</td></tr><tr><td>관심 지원사업 수</td><td class="phy">jmmbi.TB_SCRAP</td><td class="phy">COUNT(*) (CNTNTS_TYPE_CD=&#x27;09&#x27;)</td><td class="c">int</td><td class="c">PK</td></tr><tr><td rowspan="4">CN-BIZ-02</td><td rowspan="4">FR-BIZ07</td><td rowspan="4">채용공고 관리</td><td rowspan="4" class="c">DATA</td><td>공고 ID · 제목</td><td class="phy">jmmbi.TB_ENT_UNTACT_EMPMN</td><td class="phy">SEQ · TITLE</td><td class="c">bigint · longtext</td><td class="c">PK</td><td rowspan="4">BIZRNO 기준 조회. 등록·수정·마감 권한 검증</td><td rowspan="4" class="c">기존사용</td></tr><tr><td>공고 상태(STATUS 코드그룹 확인)</td><td class="phy">jmmbi.TB_ENT_UNTACT_EMPMN</td><td class="phy">STATUS / USE_YN · DEL_YN · BLOCK_YN · RECRUITMENT_DEADLINE_YN</td><td class="c">varchar(2) · char(1)</td><td class="c">IX</td></tr><tr><td>등록일 · 담당자(대리등록 DEPUTY_*)</td><td class="phy">jmmbi.TB_ENT_UNTACT_EMPMN</td><td class="phy">REG_DT / REG_USR · REG_ID · REG_NM · CHGR_NM</td><td class="c">datetime · varchar</td><td class="c">—</td></tr><tr><td>사전질문(답변 _BF_QSTN_ANS)</td><td class="phy">jedut.TB_ENT_UNTACT_EMPMN_BF_QSTN</td><td class="phy">EMPMN_SEQ</td><td class="c">bigint</td><td class="c">FK</td></tr><tr><td rowspan="5">CN-BIZ-04</td><td rowspan="5">FR-BIZ09</td><td rowspan="5">지원자 관리</td><td rowspan="5" class="c">DATA</td><td>지원 ID · 지원자 ID · 공고 ID</td><td class="phy">jedut.TB_ENT_UNTACT_EMPMN_SPRT</td><td class="phy">SEQ · MBER_SEQ · EMPMN_SEQ</td><td class="c">bigint · varchar(20) · bigint</td><td class="c">PK/FK</td><td rowspan="5">공고 담당자 권한 검증 후 조회. USE_YN=&#x27;Y&#x27; AND DEL_YN=&#x27;N&#x27;. 개인정보 최소범위(이력서 스냅샷만)</td><td rowspan="5" class="c">기존사용</td></tr><tr><td>지원 이력서(지원 시점 스냅샷 10종)</td><td class="phy">jedut.TB_ENT_UNTACT_EMPMN_SPRT → jedut.TB_UNTACT_RESUME</td><td class="phy">RESUME_SEQ</td><td class="c">bigint</td><td class="c">FK</td></tr><tr><td>지원일 · 지원 상태</td><td class="phy">jedut.TB_ENT_UNTACT_EMPMN_SPRT</td><td class="phy">REG_DT · STATUS · SUPPORT_STATUS</td><td class="c">datetime · varchar</td><td class="c">—</td></tr><tr><td>전형결과(단계 없이 1개 · 미확인 · 보류 · 합격 · 불합격)</td><td class="phy">jedut.TB_ENT_UNTACT_EMPMN_SPRT</td><td class="phy"><span class="unset">(미확정)</span> DOC_RSLT_CD · INTRV_RSLT_CD · LAST_RSLT_CD 중 저장 컬럼 확정</td><td class="c">varchar</td><td class="c">—</td></tr><tr><td>열람여부(컬럼 부재 · SC-BIZ-02)</td><td class="phy"><span class="unset">(미확정)</span></td><td class="phy"><span class="unset">(미확정)</span></td><td class="c">—</td><td class="c">—</td></tr><tr><td rowspan="4">CN-BIZ-06 · CN-BIZ-07</td><td rowspan="4">FR-BIZ11·12</td><td rowspan="4">기업정보 · 관심분야 · 지원사업 일정</td><td rowspan="4" class="c">DATA</td><td>기업 기본정보</td><td class="phy">jwrki.TB_ENT_INFO · jwrki.TB_ENT_EXCLNC</td><td class="phy">SEQ · BIZRNO / ENT_NM · KOR_CEO_NM · HDQTR_KOR_ADRS · HDQTR_TELNO · EMAIL · HOMP_URL · ENT_SMR</td><td class="c">bigint · varchar · text</td><td class="c">PK</td><td rowspan="4">기업 기본정보 단건 · 관심 지원분야 복수 · 지원사업 신청기간 매칭</td><td rowspan="4" class="c">기존사용</td></tr><tr><td>기업 콘텐츠관</td><td class="phy">jwrki.TB_ENT_CNTNTS_MPNG</td><td class="phy">BIZRNO + GUBUN_CD</td><td class="c">varchar(10) + varchar(2)</td><td class="c">PK</td></tr><tr><td>관심 지원분야(복수 · SC-BIZ-01 해소 후보)</td><td class="phy">jmmbi.TB_EMPLYR_INTEREST / TB_EMPLYR_INTRST_OCCUPT / TB_EMPLYR_INTRST_KEYWORD</td><td class="phy">MBER_SEQ + INTEREST_CD / OCCUPT_GRP_CD + OCCUPT_CD / KEYWORD_GRP_CD + KEYWORD_CD</td><td class="c">varchar</td><td class="c">PK</td></tr><tr><td>지원사업 신청기간 · 마감일</td><td class="phy">jedut.TB_ENT_SPRT</td><td class="phy">APLY_BGN_DT ~ APLY_END_DT</td><td class="c">date</td><td class="c">—</td></tr></tbody></table><h2 class="tbl-sub">조인 조건</h2><table class="tbl join"><thead><tr><th>연동 ID</th><th>기준 테이블</th><th>조인 테이블</th><th>조인 유형</th><th>조인 조건</th><th>비고</th></tr></thead><tbody><tr><td class="">CN-BIZ-01·02</td><td class="phy">jmmbi.TB_EMPLYR_LINK</td><td class="phy">jwrki.TB_ENT_INFO</td><td class="">INNER</td><td class="phy">TB_ENT_INFO.SEQ = TB_EMPLYR_LINK.ENT_INFO_SEQ</td><td class="">연결 경로 확정</td></tr><tr><td class="">CN-BIZ-01·02</td><td class="phy">jwrki.TB_ENT_INFO</td><td class="phy">jmmbi.TB_ENT_UNTACT_EMPMN</td><td class="">INNER</td><td class="phy">TB_ENT_UNTACT_EMPMN.BIZRNO = TB_ENT_INFO.BIZRNO</td><td class="">기업 공고</td></tr><tr><td class="">CN-BIZ-04</td><td class="phy">jedut.TB_ENT_UNTACT_EMPMN_SPRT A</td><td class="phy">jmmbi.TB_ENT_UNTACT_EMPMN C</td><td class="">INNER</td><td class="phy">A.EMPMN_SEQ = C.SEQ AND C.DEL_YN = &#x27;N&#x27;</td><td class="">지원 → 공고</td></tr><tr><td class="">CN-BIZ-04</td><td class="phy">jedut.TB_ENT_UNTACT_EMPMN_SPRT A</td><td class="phy">jedut.TB_UNTACT_RESUME E</td><td class="">LEFT</td><td class="phy">E.SEQ = A.RESUME_SEQ</td><td class="">지원 시점 이력서 스냅샷</td></tr><tr><td class="">CN-BIZ-06</td><td class="phy">jwrki.TB_ENT_INFO</td><td class="phy">jwrki.TB_ENT_EXCLNC</td><td class="">LEFT</td><td class="phy">TB_ENT_EXCLNC.BIZRNO = TB_ENT_INFO.BIZRNO AND DEL_YN = &#x27;N&#x27;</td><td class="">우수기업 마스터</td></tr></tbody></table><h2 class="tbl-sub">확인 필요 사항</h2><ul class='map-note'><li>기업회원 → 사업자번호 경로 확정 — TB_EMPLYR_LINK.ENT_INFO_SEQ = jwrki.TB_ENT_INFO.SEQ. 기업서비스 전 기능의 선행 조건이 풀렸다.</li><li>입사지원 이력 확정 — jedut.TB_ENT_UNTACT_EMPMN_SPRT. 지원 시점 이력서는 TB_UNTACT_RESUME 계열 스냅샷으로 분리 보관된다.</li><li>전형단계 미운영 — 전형결과를 1개로 관리하므로 기존 단계별 컬럼(DOC_RSLT_CD · INTRV_RSLT_CD · LAST_RSLT_CD) 중 저장 컬럼과 구직자 마이페이지 입사지원 목록 표시 기준을 확정해야 한다. 단계 이력(jwrki.TB_ENT_EMPMN_SPRT_STATUS_HIST) 사용 여부와 AI면접(Inview) 응시 등록 시점(기존 = 서류 합격 저장 시)도 재정의 필요.</li><li>`미열람` 열람 플래그는 부재 — ①플래그 신설(SC-BIZ-02) ②전형결과 미입력으로 대체 ③지표 삭제 중 택일 필요.</li><li>기업 관심분야는 TB_EMPLYR_INTEREST 계열 재사용 가능성이 크다(SC-BIZ-01 재판정) — 기업회원 데이터 적재 여부 운영 확인.</li><li>v 0.3.0 (2026-10-16) — 인재추천 기능 제거로 CN-BIZ-03(인재검색 · 스카우트 · FR-BIZ08) · CN-BIZ-05(추천 인재 · FR-BIZ10) 매핑과 추천 인재 수 · 스카우트 제안(TB_ENT_SUGGEST) 조인 삭제. 전형단계 제거로 면접일정 · 수험번호 · 단계 이력 매핑 삭제.</li></ul></div></section>
 </body></html>
